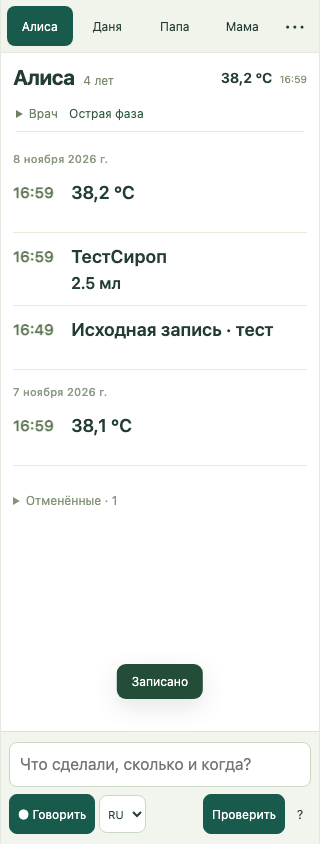
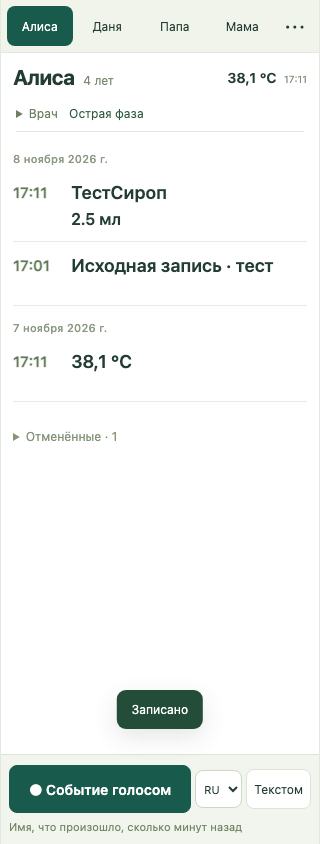
Make voice events global with relative times and automatic submission

diff --git a/site/public/app.js b/site/public/app.js
@@ -1,7 +1,7 @@
 import {captureVoice} from '/voice-capture.js';
 const $=(s,r=document)=>r.querySelector(s),root=$('#app'),modal=$('#modal');
-let state,token='',patientId=localStorage.getItem('medika-patient')||'',phrase='',busy=false,recording=null,voicePatient='',language=localStorage.getItem('medika-language')||'ru';
-const kinds={temperature:'Температура',diarrhea:'Диарея',vomiting:'Рвота',inhalation:'Ингаляция',medication:'Лекарство',other:'Другое'};
+let state,token='',patientId=localStorage.getItem('medika-patient')||'',phrase='',busy=false,recording=null,voiceAt='',textEntry=false,language=localStorage.getItem('medika-language')||'ru';
+const kinds={temperature:'Температура',diarrhea:'Диарея',vomiting:'Рвота',retching:'Позывы к рвоте',inhalation:'Ингаляция',medication:'Лекарство',other:'Другое'};
 const phases={'':'Не выбран',prevention:'Профилактика',acute:'Острая фаза'};
 const units=['мл','мг','свеча','табл.','капс.','кап.','впрыскивание','пакет','доза','г','мкг','нанесение'];
 const e=s=>String(s??'').replace(/[&<>"']/g,c=>({'&':'&amp;','<':'&lt;','>':'&gt;','"':'&quot;',"'":'&#39;'}[c]));
@@ -13,7 +13,11 @@ const value=r=>r.celsius.toLocaleString('ru-RU',{minimumFractionDigits:1,maximum
 const time=r=>new Date(r.occurredAt).toLocaleTimeString('ru-RU',{timeZone:r.timeZone,hour:'2-digit',minute:'2-digit'});
 const date=r=>new Date(r.occurredAt).toLocaleDateString('ru-RU',{timeZone:r.timeZone,day:'numeric',month:'long',year:'numeric'});
 function localInput(iso=new Date().toISOString()){if(!iso)return '';const d=new Date(iso);d.setMinutes(d.getMinutes()-d.getTimezoneOffset());return d.toISOString().slice(0,16);}
-function toast(text){$('#toast').textContent=text;clearTimeout(toast.timer);toast.timer=setTimeout(()=>$('#toast').textContent='',5000);}
+function toast(text,record=null){
+  const node=$('#toast');node.textContent=text;clearTimeout(toast.timer);
+  if(record){const button=document.createElement('button');button.textContent='Отменить';button.onclick=async()=>{button.disabled=true;try{await api('/activities/'+record.id+'/void',{body:{version:record.version,reason:'Отменено после голосового ввода'}});await refresh();toast('Запись отменена');}catch(error){toast(error.message);}};node.append(button);}
+  toast.timer=setTimeout(()=>node.textContent='',record?15000:5000);
+}
 async function api(path,{body,method=body?'POST':'GET',retry=false}={}){
   if(!token){const r=await fetch('/api/session');if(!r.ok)throw Error('Приложение недоступно');token=(await r.json()).token;}
   const response=await fetch('/api'+path,{method,headers:{'X-Medika-Token':token,...(body?{'Content-Type':'application/json'}:{})},body:body?JSON.stringify(body):undefined});
@@ -33,9 +37,9 @@ async function refresh(){
 function render(){
   if(!state.people.length){root.innerHTML='<main class="start"><h1>Медика</h1><button data-act="person">Добавить пациента</button></main>';return;}
   const p=current(),all=records(),active=all.filter(r=>r.status!=='void'),cancelled=all.filter(r=>r.status==='void'),last=active.find(r=>r.kind==='temperature');
-  root.innerHTML=`<div class="patient-app"><header class="patient-nav" aria-label="Пациенты">${state.people.map(p=>`<button data-patient="${p.id}" aria-pressed="${p.id===patientId}" ${busy||recording?'disabled':''}>${e(label(p))}</button>`).join('')}<button class="more" data-act="tools" aria-label="Ещё">⋯</button></header><section class="patient-summary"><h1>${e(label(p))}${p.ageYears!=null?`<small>${p.ageYears} лет</small>`:''}</h1>${last?`<span class="last-temperature">${value(last)} <time>${time(last)}</time></span>`:''}</section><details class="doctor"><summary>Врач <span>${e(phases[p.carePhase||''])}</span></summary><div class="doctor-body"><label>Контекст<select id="care-phase">${Object.entries(phases).map(([v,l])=>`<option value="${v}" ${v===(p.carePhase||'')?'selected':''}>${l}</option>`).join('')}</select></label>${doctorPlan()}<div class="source-actions"><button data-act="upload">Выписка</button><button data-act="rx">Назначение</button></div></div></details><main class="patient-history" aria-label="История пациента">${active.length?historyRows(active):'<p class="quiet">Событий пока нет</p>'}${cancelled.length?`<details class="cancelled"><summary>Отменённые · ${cancelled.length}</summary>${historyRows(cancelled)}</details>`:''}</main><form id="composer" class="composer"><textarea id="phrase" name="text" rows="1" placeholder="Что сделали, сколько и когда?" aria-label="Запись одной фразой" ${busy||recording?'disabled':''}>${e(phrase)}</textarea><div class="composer-actions"><button type="button" class="voice ${recording?'recording':''}" data-act="voice" ${busy?'disabled':''}>${recording?'■ Стоп':'● Говорить'}</button><select id="language" aria-label="Язык диктовки" ${busy||recording?'disabled':''}><option value="ru" ${language==='ru'?'selected':''}>RU</option><option value="en" ${language==='en'?'selected':''}>EN</option></select><span class="voice-status" role="status">${busy?'Разбираю…':recording?'Слушаю…':''}</span><button type="submit" class="primary" ${busy||recording?'disabled':''}>Проверить</button><button type="button" class="template" data-act="template" aria-label="Шаблон фразы">?</button></div></form></div>`;
+  root.innerHTML=`<div class="patient-app"><header class="patient-nav" aria-label="Пациенты">${state.people.map(p=>`<button data-patient="${p.id}" aria-pressed="${p.id===patientId}" ${busy||recording?'disabled':''}>${e(label(p))}</button>`).join('')}<button class="more" data-act="tools" aria-label="Ещё">⋯</button></header><section class="patient-summary"><h1>${e(label(p))}${p.ageYears!=null?`<small>${p.ageYears} лет</small>`:''}</h1>${last?`<span class="last-temperature">${value(last)} <time>${time(last)}</time></span>`:''}</section><details class="doctor"><summary>Врач <span>${e(phases[p.carePhase||''])}</span></summary><div class="doctor-body"><label>Контекст<select id="care-phase">${Object.entries(phases).map(([v,l])=>`<option value="${v}" ${v===(p.carePhase||'')?'selected':''}>${l}</option>`).join('')}</select></label>${doctorPlan()}<div class="source-actions"><button data-act="upload">Выписка</button><button data-act="rx">Назначение</button></div></div></details><main class="patient-history" aria-label="История пациента">${active.length?historyRows(active):'<p class="quiet">Событий пока нет</p>'}${cancelled.length?`<details class="cancelled"><summary>Отменённые · ${cancelled.length}</summary>${historyRows(cancelled)}</details>`:''}</main><form id="composer" class="composer" aria-label="Общее событие для семьи"><div class="composer-actions"><button type="button" class="voice ${recording?'recording':''}" data-act="voice" ${busy?'disabled':''}>${recording?'■ Отправить':'● Событие голосом'}</button><select id="language" aria-label="Язык диктовки" ${busy||recording?'disabled':''}><option value="ru" ${language==='ru'?'selected':''}>RU</option><option value="en" ${language==='en'?'selected':''}>EN</option></select><button type="button" class="text-toggle" data-act="text" ${busy||recording?'disabled':''}>Текстом</button></div><div class="voice-status" role="status">${busy?'Распознаю и записываю…':recording?'Скажите имя и событие · пауза отправит запись':'Имя, что произошло, сколько минут назад'}</div>${textEntry?`<div class="text-entry"><textarea id="phrase" name="text" rows="1" placeholder="Даня, две минуты назад температура 38,2" aria-label="Запись одной фразой" ${busy||recording?'disabled':''}>${e(phrase)}</textarea><button type="submit" class="primary" ${busy||recording?'disabled':''}>Проверить</button></div>`:''}</form></div>`;
   $('#composer').onsubmit=event=>{event.preventDefault();parsePhrase();};
-  $('#phrase').oninput=event=>phrase=event.target.value;
+  if($('#phrase'))$('#phrase').oninput=event=>phrase=event.target.value;
   $('#language').onchange=event=>{language=event.target.value;localStorage.setItem('medika-language',language);};
   $('#care-phase').onchange=async event=>{try{await api('/people/'+p.id,{method:'PUT',body:{...p,carePhase:event.target.value,version:p.version}});await refresh();$('.doctor').open=true;}catch(error){toast(error.message);}};
 }
@@ -57,7 +61,7 @@ function dialog(title,html,submit){
   $('form',modal).onsubmit=async event=>{event.preventDefault();const button=$('[type="submit"]',modal);if(button?.disabled)return;if(button)button.disabled=true;try{await submit?.(Object.fromEntries(new FormData(event.target)),event.target);}catch(error){$('.error',modal).textContent=error.message;}finally{if(button)button.disabled=false;}};
 }
 modal.addEventListener('click',event=>{if(event.target.closest('[data-close]'))modal.close();});
-async function parsePhrase(text=phrase,pid=patientId){
+async function parsePhrase(text=phrase,pid=''){
   if(!text.trim()||busy)return;busy=true;render();
   try{const draft=await api('/parse-entry',{body:{text,personId:pid,timeZone:tz()}});preview(draft);}catch(error){toast(error.message);}finally{busy=false;render();}
 }
@@ -67,21 +71,29 @@ function preview(d){
     const body={...data,sourceText:d.sourceText,timeZone:d.timeZone,occurredAt:new Date(data.occurredAt).toISOString(),clientKey};
     if(data.kind!=='temperature')delete body.celsius;
     if(!['medication','inhalation'].includes(data.kind)){body.amount='';body.unit='';body.relatedRxId='';}
-    const record=await api('/entries',{body});patientId=record.personId;phrase='';modal.close();await refresh();toast('Записано');
+    const record=await api('/entries',{body});patientId=record.personId;phrase='';textEntry=false;modal.close();await refresh();toast('Записано');
   });
   const choose=$('[name="kind"]',modal),update=()=>{for(const part of modal.querySelectorAll('[data-part]')){const visible=part.dataset.part.split(' ').includes(choose.value);part.hidden=!visible;for(const input of part.querySelectorAll('input,select'))input.disabled=!visible;} $('[name="celsius"]',modal).required=choose.value==='temperature';$('[name="name"]',modal).required=['medication','inhalation','other'].includes(choose.value);};choose.onchange=update;update();
   $('[name="personId"]',modal).onchange=()=>{const select=$('[name="relatedRxId"]',modal);select.value='';for(const option of [...select.options].slice(1))option.remove();};
   $('[name="name"]',modal).oninput=()=>{$('[name="relatedRxId"]',modal).value='';};
 }
-async function speechFile(file,pid=patientId){
-  if(!file||busy)return;busy=true;render();
-  try{const audio=await new Promise((resolve,reject)=>{const reader=new FileReader();reader.onload=()=>resolve(reader.result.split(',')[1]);reader.onerror=reject;reader.readAsDataURL(file);});const result=await api('/transcribe',{body:{audio,language}});phrase=result.text;busy=false;await parsePhrase(phrase,pid);}catch(error){toast(error.message);}finally{busy=false;render();}
+async function recordSpeech(text,recordedAt,clientKey){
+  const result=await api('/record-entry',{body:{text,timeZone:tz(),recordedAt,clientKey}});
+  if(!result.record){preview(result.draft);return;}
+  const record=result.record;patientId=record.personId;phrase='';textEntry=false;localStorage.setItem('medika-patient',patientId);await refresh();
+  toast(label(person(record.personId))+' · '+title(record)+(amount(record)?' · '+amount(record):'')+' · '+time(record),record);
+}
+async function speechFile(file,recordedAt=new Date().toISOString()){
+  if(!file||busy)return;busy=true;render();const clientKey=key();
+  try{const audio=await new Promise((resolve,reject)=>{const reader=new FileReader();reader.onload=()=>resolve(reader.result.split(',')[1]);reader.onerror=reject;reader.readAsDataURL(file);});const result=await api('/transcribe',{body:{audio,language}});phrase=result.text;await recordSpeech(result.text,recordedAt,clientKey);}catch(error){textEntry=!!phrase;toast(error.message);}finally{busy=false;render();}
 }
 async function voice(){
-  if(recording){const captured=recording;recording=null;busy=true;render();try{const blob=await captured.stop();busy=false;await speechFile(blob,voicePatient);}catch(error){toast(error.message);}finally{busy=false;render();}return;}
+  if(busy)return;
+  if(recording){const captured=recording;recording=null;busy=true;render();try{const blob=await captured.stop();busy=false;await speechFile(blob,voiceAt);}catch(error){toast(error.message);}finally{busy=false;render();}return;}
   if(!window.isSecureContext||!navigator.mediaDevices?.getUserMedia){voiceHelp();return;}
   if(!state.capabilities.voice?.ready){toast('Локальное распознавание ещё не готово');return;}
-  try{voicePatient=patientId;recording=await captureVoice(()=>voice());render();}catch(error){toast(error.name==='NotAllowedError'?'Разрешите доступ к микрофону в браузере':'Не удалось включить микрофон. Можно ввести текст или выбрать аудиозапись.');}
+  busy=true;phrase='';render();
+  try{recording=await captureVoice(()=>voice());voiceAt=new Date().toISOString();}catch(error){toast(error.name==='NotAllowedError'?'Разрешите доступ к микрофону в браузере':'Не удалось включить микрофон. Можно ввести текст или выбрать аудиозапись.');}finally{busy=false;render();}
 }
 function voiceHelp(){dialog('Микрофон на телефоне',`<p>Браузер разрешает микрофон через HTTPS. На iPad один раз установите локальный сертификат и включите доверие к нему.</p><ol><li><a href="/medika-ca.cer">Скачать сертификат Медики</a></li><li>Настройки → Загруженный профиль → Установить. Затем Основные → Об этом устройстве → Доверие сертификатам → включить локальный сертификат.</li><li><a href="${e(state.capabilities.voice?.secureOrigin||'https://macbook-air-5.local')}">Открыть HTTPS</a></li></ol><p class="quiet">Сейчас можно надиктовать текст микрофоном клавиатуры или выбрать готовую аудиозапись. Распознавание записи выполняется на Mac.</p><input type="file" id="audio-file" accept=".wav,.m4a,.mp4,.aif,.aiff" aria-label="Аудиозапись"><footer class="dialog-footer"><button type="button" data-close>Закрыть</button></footer>`);$('#audio-file',modal).onchange=event=>{modal.close();speechFile(event.target.files[0]);};}
 function template(){dialog('Шаблон фразы',`<p class="template-line">Кто → что сделали → сколько → когда</p><p>Можно говорить свободно. Одно событие — одна фраза. Неясные поля можно исправить перед записью.</p><footer class="dialog-footer"><button type="button" data-close>Понятно</button></footer>`);}
@@ -99,7 +111,7 @@ function rxForm(id='',suggestion={},documentId=''){
 root.addEventListener('click',async event=>{
   const tab=event.target.closest('[data-patient]');if(tab&&!busy&&!recording){patientId=tab.dataset.patient;localStorage.setItem('medika-patient',patientId);render();return;}
   const b=event.target.closest('[data-act]');if(!b)return;
-  try{const {act,id}=b.dataset;if(act==='voice')await voice();if(act==='tools')tools();if(act==='person')personForm(null);if(act==='template')template();if(act==='void')voidRecord(b.dataset.source,id);if(act==='document')documentView(id);if(act==='upload')upload();if(act==='rx')rxForm(id);if(act==='draft-rx'){const d=state.documents.find(d=>d.id===id);rxForm('',d.suggestions[Number(b.dataset.index)],d.id);}}catch(error){toast(error.message);}
+  try{const {act,id}=b.dataset;if(act==='voice')await voice();if(act==='text'){textEntry=!textEntry;render();if(textEntry)$('#phrase').focus();}if(act==='tools')tools();if(act==='person')personForm(null);if(act==='template')template();if(act==='void')voidRecord(b.dataset.source,id);if(act==='document')documentView(id);if(act==='upload')upload();if(act==='rx')rxForm(id);if(act==='draft-rx'){const d=state.documents.find(d=>d.id===id);rxForm('',d.suggestions[Number(b.dataset.index)],d.id);}}catch(error){toast(error.message);}
 });
 window.addEventListener('pagehide',()=>recording?.cancel());
 function viewport(){document.documentElement.style.setProperty('--screen-height',(window.visualViewport?.height||window.innerHeight)+'px');}window.visualViewport?.addEventListener('resize',viewport);viewport();

diff --git a/site/public/style.css b/site/public/style.css
@@ -1,1 +1,3 @@
 :root{font-family:-apple-system,BlinkMacSystemFont,"Segoe UI",sans-serif;color:#243d33;background:#f5f6f2;font-size:16px;--screen-height:100dvh}*{box-sizing:border-box}body{margin:0}button,input,select,textarea{font:inherit;color:inherit}button,select{cursor:pointer}button{border:1px solid #dce4d7;background:#fff;border-radius:8px;padding:9px 12px;min-height:42px}button:hover{background:#eef4e9}button.primary,.voice{background:#185b4c;color:#fff;border-color:#185b4c}button:disabled{opacity:.55;cursor:default}input,select,textarea{width:100%;border:1px solid #cbd8c4;border-radius:8px;padding:10px;background:white;font-size:16px}textarea{resize:vertical;line-height:1.45}label{display:grid;gap:6px;font-size:13px;margin:12px 0}h1,h2,p{margin-top:0}a{color:#185b4c}button:focus-visible,summary:focus-visible,a:focus-visible,input:focus-visible,select:focus-visible,textarea:focus-visible{outline:3px solid #89b5a0;outline-offset:2px}[hidden]{display:none!important}.patient-app{display:flex;flex-direction:column;height:var(--screen-height);max-width:920px;margin:auto;background:#fff;overflow:hidden;border-inline:1px solid #e4e9df}.patient-nav{display:flex;gap:4px;padding:7px 10px;border-bottom:1px solid #e3e9dc;flex-shrink:0;background:#f0f4eb}.patient-nav button{flex:1;min-width:0;font-size:14px;border-color:transparent;background:transparent;padding:8px 6px;min-height:40px;overflow:hidden;text-overflow:ellipsis;white-space:nowrap}.patient-nav button[aria-pressed="true"]{background:#185b4c;color:#fff}.patient-nav .more{flex:0 0 36px;font-size:23px;padding:3px}.patient-summary{display:flex;align-items:center;gap:12px;padding:11px 17px 5px;flex-shrink:0}.patient-summary h1{font-size:21px;letter-spacing:-.5px;margin:0;flex:1;line-height:1.3}.patient-summary h1 small{font-size:12px;font-weight:400;color:#7b8b71;margin-left:9px;letter-spacing:0}.last-temperature{font-size:16px;font-weight:650;white-space:nowrap}.last-temperature time{font-size:10px;font-weight:400;color:#839377;margin-left:4px}.doctor{margin:0 15px 5px;flex-shrink:0;max-height:50%;overflow:auto;border-bottom:1px solid #e2e8dc}.doctor>summary{cursor:pointer;font-size:12px;padding:10px 0;color:#6e8064}.doctor>summary>span{color:#315b42;margin-left:8px}.doctor-body{padding:0 0 12px}.doctor-body>label{display:flex;align-items:center;gap:10px;font-size:12px}.doctor-body>label select{font-size:13px;padding:7px;max-width:220px}.patient-history{flex:1;overflow:auto;min-height:0;padding:0 17px 15px;overscroll-behavior:contain}.day{font-size:11px;color:#8c9983;font-weight:500;margin:15px 0 4px;letter-spacing:.2px}.record{border-bottom:1px solid #e7ecdf}.record>summary{display:flex;align-items:flex-start;gap:14px;padding:12px 0;min-height:63px;cursor:pointer;list-style:none}.record>summary::-webkit-details-marker{display:none}.record>summary>time{flex-shrink:0;min-width:44px;font-size:15px;font-weight:550;color:#607957;padding-top:2px}.record>summary>div{min-width:0;flex:1}.record strong{display:-webkit-box;-webkit-line-clamp:2;-webkit-box-orient:vertical;overflow:hidden;font-size:18px;font-weight:600;line-height:1.3;overflow-wrap:anywhere}.record b{display:block;font-size:16px;font-weight:600;margin-top:4px;line-height:1.3}.record span{display:block;font-size:11px;margin-top:4px;color:#829177}.record-details{padding:0 0 12px 58px;font-size:12px;line-height:1.6}.record-details p{margin:5px 0;overflow-wrap:anywhere;white-space:pre-wrap}.record-details button{font-size:12px;min-height:38px;padding:7px 10px}.record.void strong{color:#9ba68f;text-decoration:line-through}.cancelled{margin-top:18px;font-size:12px;color:#859579}.cancelled>summary{padding:9px 0;cursor:pointer}.quiet{font-size:13px;color:#8c9c81;line-height:1.6;margin:18px 0}.composer{flex-shrink:0;border-top:1px solid #dbe5d4;padding:10px 12px calc(10px + env(safe-area-inset-bottom));background:#f1f5ed}.composer textarea{display:block;min-height:45px;max-height:100px;resize:none;font-size:16px;background:#fff}.composer-actions{display:flex;align-items:center;gap:7px;margin-top:7px}.composer-actions button{font-size:13px;min-height:40px;padding:8px 11px;white-space:nowrap}.composer-actions #language{width:57px;flex-shrink:0;font-size:11px;padding:7px 4px;min-height:38px}.voice-status{font-size:11px;color:#728666;margin-right:auto;white-space:nowrap}.composer-actions .template{padding:5px;flex:0 0 28px;min-width:28px;border-color:transparent;background:transparent}.voice.recording{background:#a34435;border-color:#a34435}.order{display:flex;align-items:center;gap:12px;padding:11px 0;border-top:1px solid #e4e9de}.order>div{flex:1;min-width:0}.order strong,.order b,.order span,.order small{display:block;overflow-wrap:anywhere}.order strong{font-size:16px;font-weight:600}.order b{font-size:14px;margin-top:3px}.order span{font-size:12px;color:#657e59;margin-top:3px;line-height:1.5}.order small{font-size:10px;color:#9a8456;margin-top:4px}.order button{font-size:11px;min-height:38px;padding:7px}.order.draft{background:#fbf9f2}.source-actions{display:flex;gap:8px;margin-top:12px}.source-actions button{font-size:12px;min-height:38px}.sources{font-size:12px;padding:10px 0;color:#708264}.sources summary{cursor:pointer}.sources button{display:block;margin:7px 0;font-size:11px;text-align:left}.start{max-width:500px;margin:60px auto;padding:25px}.start h1{font-size:28px}.loading{padding:25px}dialog{width:min(560px,calc(100% - 24px));max-height:90dvh;border:0;border-radius:16px;padding:23px;color:#243d33;box-shadow:0 20px 80px #1b392a30}dialog::backdrop{background:#20392b66;backdrop-filter:blur(3px)}.dialog-head{display:flex;align-items:center;justify-content:space-between;gap:15px;margin-bottom:16px}.dialog-head h2{font-size:20px;letter-spacing:-.5px;line-height:1.25;margin:0}.dialog-head button{padding:4px;min-width:36px;min-height:36px;font-size:22px}.dialog-footer{display:flex;justify-content:flex-end;gap:8px;margin-top:20px}.dialog-footer button{font-size:13px}.dose-fields{display:grid;grid-template-columns:1fr 1fr;gap:12px}.dose-fields label{min-width:0}.preview>label:first-child{margin-top:0}.preview details{font-size:12px;margin-top:13px}.preview summary{cursor:pointer;color:#748568;padding:6px 0}.parse-notes{font-size:12px;color:#96753d;line-height:1.55;margin:10px 0 0}.source-text{white-space:pre-wrap;overflow-wrap:anywhere;font-size:12px;color:#748469;line-height:1.7}.check{display:flex;align-items:start;gap:8px;line-height:1.5}.check input{width:18px;height:18px;flex-shrink:0;margin-top:1px}.document-image{max-width:100%;max-height:390px;object-fit:contain;border-radius:8px}.error{font-size:12px;color:#a44535;line-height:1.5;margin:12px 0 0}.error:empty{display:none}.tools{display:grid;gap:9px}.tools button{text-align:left;font-size:13px}.tools label{border:1px solid #dbe5d4;padding:11px;border-radius:8px;margin:0}.template-line{font-size:18px;line-height:1.5}dialog p,dialog ol{font-size:14px;line-height:1.6}dialog li{margin:10px 0}#toast{position:fixed;bottom:calc(145px + env(safe-area-inset-bottom));left:50%;transform:translateX(-50%);max-width:calc(100% - 30px);font-size:12px;color:white;background:#234d39;padding:10px 15px;border-radius:9px;z-index:12;box-shadow:0 8px 24px #203e2520}#toast:empty{display:none}@media(max-width:360px){.patient-nav{padding:6px;gap:2px}.patient-nav button{font-size:12px;padding:7px 4px}.patient-summary{padding-inline:12px}.patient-history{padding-inline:12px}.composer{padding-inline:8px}.composer-actions{gap:4px}.composer-actions button{font-size:12px;padding:8px}.voice-status{font-size:9px}.composer-actions #language{width:47px}.composer-actions .template{flex-basis:22px;min-width:22px}dialog{padding:18px}.last-temperature{font-size:14px}}@media(min-width:1000px){.patient-app{border-inline:1px solid #dfe6d7}.patient-history{padding-inline:24px}.patient-summary{padding-inline:24px}.composer{padding:12px 23px}.patient-nav{padding-inline:19px}}
+
+.composer-actions{margin-top:0}.composer-actions .voice{flex:1;font-size:16px;font-weight:600;min-height:48px}.composer-actions .text-toggle{font-size:12px;padding-inline:7px}.voice-status{margin:7px 0 0;font-size:11px;color:#728666;min-height:14px}.text-entry{display:flex;gap:7px;margin-top:8px}.text-entry textarea{flex:1;min-width:0}.text-entry button{font-size:12px}#toast{bottom:calc(115px + env(safe-area-inset-bottom));line-height:1.6;text-align:center}#toast button{display:inline-block;min-height:36px;margin:5px 0 0 10px;padding:5px 10px;font-size:12px;color:#fff;border-color:#729d80;background:transparent}@media(max-width:360px){.composer-actions .voice{font-size:14px}}

diff --git a/site/public/voice-capture.js b/site/public/voice-capture.js
@@ -13,10 +13,17 @@ export async function captureVoice(onLimit){
     stream=await navigator.mediaDevices.getUserMedia({audio:{channelCount:1,echoCancellation:true,noiseSuppression:true},video:false});
     await context.audioWorklet.addModule('/voice-recorder.js');
     const source=context.createMediaStreamSource(stream),recorder=new AudioWorkletNode(context,'medika-recorder'),silent=context.createGain();silent.gain.value=0;source.connect(recorder);recorder.connect(silent);silent.connect(context.destination);
-    const chunks=[];let finish,stopped=false;const finalChunk=new Promise(resolve=>finish=resolve);
-    recorder.port.onmessage=event=>{if(event.data.samples)chunks.push(event.data.samples);if(event.data.done)finish();};
+    const chunks=[];let finish,stopped=false,spokenMs=0,lastSpeech=0,ending=false;const finalChunk=new Promise(resolve=>finish=resolve),started=performance.now();
+    recorder.port.onmessage=event=>{
+      if(event.data.samples){
+        const samples=event.data.samples;chunks.push(samples);let power=0;for(const sample of samples)power+=sample*sample;
+        if(Math.sqrt(power/samples.length)>.012){spokenMs+=samples.length/context.sampleRate*1000;lastSpeech=performance.now();}
+      }
+      if(event.data.done)finish();
+    };
+    const pause=setInterval(()=>{if(!stopped&&!ending&&((spokenMs>=250&&performance.now()-lastSpeech>=1800)||(!lastSpeech&&performance.now()-started>=10000))){ending=true;onLimit();}},100);
     const limit=setTimeout(onLimit,45000);
-    const close=()=>{clearTimeout(limit);stream.getTracks().forEach(track=>track.stop());if(context.state!=='closed')context.close().catch(()=>{});};
+    const close=()=>{clearTimeout(limit);clearInterval(pause);stream.getTracks().forEach(track=>track.stop());if(context.state!=='closed')context.close().catch(()=>{});};
     return {cancel(){stopped=true;close();},async stop(){if(stopped)throw Error('Запись уже остановлена');stopped=true;clearTimeout(limit);try{recorder.port.postMessage('stop');await Promise.race([finalChunk,new Promise(resolve=>setTimeout(resolve,1000))]);return encodeWav(chunks,context.sampleRate);}finally{close();}}};
   }catch(error){stream?.getTracks().forEach(track=>track.stop());await context.close();throw error;}
 }

diff --git a/PROJECT.md b/PROJECT.md
@@ -8,9 +8,13 @@
 
 Открыть **http://macbook-air-5.local** или **http://192.168.0.38** в домашней Wi-Fi сети. На Mac также работает http://medika.localhost. Порты скрыты Caddy, DNS менять не нужно.
 
-Выбрать человека сверху. На экране — только его история; подробности записи раскрываются нажатием. Внизу — одна фраза текстом либо кнопка «Говорить». Шаблон по кнопке «?»: кто → что сделали → сколько → когда. Например, температуру, рвоту, диарею, свечу или ингаляцию можно описать своими словами. Одно событие — одна фраза. Если человек назван явно, он будет выбран при проверке. Если точное время прошлого события неизвестно, его нужно заполнить.
+Основной ввод — общая кнопка «Событие голосом» внизу. Заранее выбирать пациента или открывать клавиатуру не нужно. Нажать и сказать, например: «Даня, две минуты назад температура 38,2», «Даня получил таблетку парацетамола 250 мг пять минут назад», «Даня получил свечку парацетамола 125 мг минуту назад», «Даня, позывы к рвоте». После паузы около двух секунд запись отправляется сама; кнопка «Отправить» позволяет закончить раньше. Имя в фразе определяет пациента независимо от открытой истории.
 
-Распознанный текст сначала превращается в проверяемый черновик. Исправить человека, название, значение, количество, единицу и время; нажать «Записать». Разбор фразы и распознавание аудио сами по себе ничего не записывают. Дозу из назначения в факт автоматически не подставлять. Сложная или неоднозначная речь может потребовать ручного исправления; это консервативный локальный разбор, а не медицинская языковая модель.
+Однозначный факт сразу сохраняется: короткое подтверждение показывает человека, событие, количество и время; «Отменить» доступно 15 секунд без дополнительной формы. Исходная фраза остаётся в истории. Уточнение открывается только при пропущенном/неоднозначном имени, значении, названии, количестве или времени; голосовой диалог уточнений — фаза 2. Разбор фото/назначений по-прежнему требует ручной сверки.
+
+«Две минуты назад», «пять минут назад», «минуту назад», «полчаса назад» пересчитываются относительно начала фактической записи, а не конца распознавания. Таблетка/свечка в единственном числе означает одну штуку; содержание в мг хранится отдельно и не вычисляется из назначения. Позывы к рвоте — отдельное событие, они не считаются состоявшейся рвотой. Несколько событий записывать отдельными фразами.
+
+Пациенты сверху нужны для просмотра истории; после голосовой записи откроется история названного человека. Текстовый ввод свёрнут под «Текстом» и остаётся способом ручной проверки. Неясные значения, диапазоны, отрицания и неподтверждённые прошлые часы автоматически в положительный факт не превращаются. Сложная речь может потребовать исправления: локальный разбор не является медицинской языковой моделью.
 
 Микрофону браузера на iPad нужен доверенный HTTPS. Один раз скачать http://macbook-air-5.local/medika-ca.cer, установить профиль в настройках iPad и включить доверие **Medika Local Root** в «Основные → Об этом устройстве → Доверие сертификатам». Затем открыть **https://macbook-air-5.local** (или https://192.168.0.38) и разрешить микрофон. Подсказка доступна по «Говорить» на HTTP. Без установки можно вводить текст, использовать диктовку клавиатуры или выбрать WAV/M4A/AIFF. Диктовкой клавиатуры управляет ОС; локальный Whisper используется кнопкой приложения и для загруженного аудио.
 
@@ -20,7 +24,7 @@
 
 ## Архитектура
 
-`site/`: Node.js 24+ со встроенной SQLite и браузерный JS без runtime npm-зависимостей. Изображения: локальный Apple Vision (Swift). Речь: локальный whisper.cpp, multilingual base, Metal на Mac. Только русский и английский, до 45 секунд, один запрос распознавания одновременно. Исходный код и SHA256 модели закреплены в `site/voice-engine.json`; восстановление движка — `node site/scripts/setup-voice.mjs` (нужны git, cmake и Xcode Command Line Tools). Модель и сборка исключены из Git. Аудио удаляется после обработки; распознанная фраза сохраняется с подтверждённым событием.
+`site/`: Node.js 24+ со встроенной SQLite и браузерный JS без runtime npm-зависимостей. Изображения: локальный Apple Vision (Swift). Речь: локальный whisper.cpp, multilingual base, Metal на Mac. Только русский и английский, до 45 секунд, один запрос распознавания одновременно. Исходный код и SHA256 модели закреплены в `site/voice-engine.json`; восстановление движка — `node site/scripts/setup-voice.mjs` (нужны git, cmake и Xcode Command Line Tools). Модель и сборка исключены из Git. Аудио удаляется после обработки; распознанная фраза сохраняется с записанным событием.
 
 Существующий системный Caddy (`homebrew.mxcl.caddy`) проксирует HTTP/HTTPS 80/443 на loopback 4382. Для HTTPS создана отдельная локальная CA `medika`; системное доверие автоматически не устанавливалось. Маршруты других проектов сохранены. Дополнительный блок — `infra/medika.caddy`; глобальные настройки — в `/opt/homebrew/etc/Caddyfile`: `auto_https disable_redirects`, `skip_install_trust`, `pki ca medika`. Оба LAN-маршрута ограничены домашней подсетью; backend проверяет Host, Origin и токен сессии.
 
@@ -28,7 +32,7 @@
 
 Медицинские данные находятся только в игнорируемом `site/data/`: SQLite, изображения, закрытые резервные копии. Аудио и фотографии не отправляются внешним сервисам. Новые факты, включая температуру, хранятся в `activities`; прежние `temperatures` и `events` отображаются в той же истории без изменения записей. Необязательные `carePhase`, `relatedRxId`, `sourceText` связывают факт с предписанием и исходной фразой. Связь не допускается с назначением другого человека.
 
-Копия v4 включает оригиналы, историю, связи и контекст; восстановление v1–v4 добавляет отсутствующие данные, конфликт версий отклоняется целиком. Перед обновлением создана закрытая копия `site/data/before-patient-first.json`; после запуска проверено равенство всех прежних клинических разделов.
+Копия v4 включает оригиналы, историю, связи и контекст; восстановление v1–v4 добавляет отсутствующие данные, конфликт версий отклоняется целиком. Перед обновлением создана закрытая копия `site/data/before-global-voice.json`; после запуска проверено равенство всех прежних клинических разделов.
 
 Режим рассчитан на доверенные домашние устройства: отдельных аккаунтов нет. Интернет-доступ не настраивался. Mac должен быть включён; изоляция клиентов Wi-Fi может мешать доступу. При смене DHCP-адреса обновить IP в Caddy и `MEDIKA_LAN_HOSTS`. Справочная база по взаимодействиям ограничена и не объявляет схему безопасной; автоматического расчёта детских доз нет.
 

diff --git a/reports/test-report.md b/reports/test-report.md
@@ -1,7 +1,7 @@
 # Проверка пациента и событий — 8 ноября 2026
 
-- 20 unit/API-тестов — PASS: дозы/концентрации, календарные границы и DST, прежние API, свободная фраза ru/en, отрицания/диапазоны, личные связи с Rx, неизменность контекста прошлых фактов, HTTPS Origin, WAV-кодирование, копии v1–v4.
-- `site/scripts/canary.mjs` — PASS, 9 групп: пациент и история; свободный ввод без записи до подтверждения; доза/время/Rx/источник; неизвестное прошлое время; AudioWorklet → WAV → настоящий локальный Whisper → проверка числа → факт; контекст предписания; синтетическое фото → Apple Vision → предложение; отмена; перезапуск/полное восстановление без дублей.
+- 22 unit/API-теста — PASS: дозы/концентрации, календарные границы и DST, прежние API, свободная фраза ru/en, отрицания/диапазоны, личные связи с Rx, неизменность контекста прошлых фактов, HTTPS Origin, WAV-кодирование, копии v1–v4.
+- `site/scripts/canary.mjs` — PASS, 9 групп: пациент и история; свободный ввод без записи до подтверждения; доза/время/Rx/источник; неизвестное прошлое время; AudioWorklet → WAV → настоящий локальный Whisper → пациент и относительное время из фразы → факт без формы; контекст предписания; синтетическое фото → Apple Vision → предложение; отмена; перезапуск/полное восстановление без дублей.
 - Финальный canary загружал реальные опубликованные ресурсы с https://macbook-air-5.local. Все API были перехвачены в отдельную временную базу. Использованы только синтетическое фото и синтезированная речь; microphone Chromium подменён WAV. Физический iPad не проверен.
 - В одном приложении проверены ширины 320/390/768/1024/1470, отсутствие горизонтальной прокрутки, шапка до 60 px и ввод до 150 px. Визуально проверены синтетические снимки 390 и 768. Результат: `canary-result.json`, `patient-*.png`, `patient-ocr.json`.
 - Изолированный Caddy TLS canary с временной CA, backend и данными — PASS; опубликованная TLS-цепочка и имена затем проверены с явным корневым сертификатом. Прежние маршруты Caddy сохранены; корневое доверие ОС не менялось. `tls-canary.json`, `https-access.json`.
@@ -10,3 +10,5 @@
 - `node site/scripts/setup-voice.mjs` — PASS на установленном движке: закреплённый commit, размер/SHA256 модели и работоспособность CLI. Чистая переустановка на другом Mac не проверена.
 
 Нынешний интерфейс использует локальный консервативный разбор полей; сложная речь требует ручной проверки, записи не сохраняются автоматически. Голосовой диалог уточнений — фаза 2. Старые отчёты описывают архивный интерфейс, актуальны результаты выше.
+
+Общий голосовой ввод: проверен новый `/api/record-entry`: имя независимо от открытого пациента, точные две минуты назад, таблетка/свечка (штуки отдельно от мг), позывы отдельно от рвоты, отсутствие записи при неоднозначности, повтор запроса без дубля, отмена, перезапуск и восстановление v4. Канарейка говорит «Даня, две минуты назад температура тридцать девять» при открытой Алисе: одно нажатие микрофона, автоотправка по паузе, настоящий Whisper, запись в Дане, ни формы подтверждения, ни клавиатуры, затем отмена одним нажатием. Скриншоты и база только синтетические. Физический iPad и шумная комната не проверены; при шуме запись можно завершить кнопкой «Отправить» (есть предел 45 секунд).

diff --git a/STATUS.md b/STATUS.md
@@ -2,8 +2,9 @@
 
 8 ноября 2026: запущен новый интерфейс «пациент и история».
 
-- Четыре пациента, личная компактная лента, единый ввод фразой или голосом.
-- Локальный Whisper ru/en: микрофон или аудиофайл → проверка текста/полей → подтверждённый факт. Без отправки аудио наружу.
+- Четыре пациента, личная компактная лента, общая кнопка «Событие голосом», без предварительного выбора человека и клавиатуры.
+- Локальный Whisper ru/en: микрофон → отправка после паузы → определение человека/события/времени → запись и короткое подтверждение с отменой. Уточнение только для неясной фразы. Без отправки аудио наружу.
+- Поддержаны «две минуты назад», «минуту назад», «полчаса назад», «получил таблетку/свечку»; позывы к рвоте учитываются отдельно от рвоты.
 - Лекарства, дозы, время, температура, симптомы и процедуры сохраняются в истории; исходная фраза и контекст предписания связаны с записью.
 - «Врач» свёрнут: профилактика/острая фаза, назначения, исходные выписки, локальный OCR и ручная сверка.
 - Прежние данные сохранены. Копии v4; восстановление v1–v4 без дублей и потери старых записей.
@@ -11,6 +12,6 @@
 - На iPad для микрофона один раз установить и доверить Medika Local Root: http://macbook-air-5.local/medika-ca.cer. Текстовый ввод работает по HTTP.
 - Предыдущая сложная версия: Git-ветка `archive/before-patient-first`, коммит `3a4e5a5`.
 
-Проверены 20 unit/API-тестов, сквозной ввод с настоящим локальным распознаванием синтетической речи, OCR, отмена, перезапуск, восстановление, ширины 320/390/768/1024/1470 и опубликованный HTTPS. Сценарии выполнялись в headless Chromium с временной базой, без реальных медицинских данных. Физический iPad и его микрофон не проверены. Голосовой диалог с уточнениями — фаза 2. Точность сложной свободной речи требует проверки перед сохранением.
+Проверены 22 unit/API-теста, сквозной ввод с настоящим локальным распознаванием синтетической речи, OCR, отмена, перезапуск, восстановление, ширины 320/390/768/1024/1470 и опубликованный HTTPS. Сценарии выполнялись в headless Chromium с временной базой, без реальных медицинских данных. Физический iPad и его микрофон не проверены. Голосовой диалог с уточнениями — фаза 2. Точность сложной свободной речи требует проверки перед сохранением.
 
 Подробности запуска/данных: [PROJECT.md](PROJECT.md). Доказательства: [reports/test-report.md](reports/test-report.md).

diff --git a/AGENTS.md b/AGENTS.md
@@ -20,7 +20,7 @@
 
 
 - Текущая модель: пациент → личная история → событие/лекарство, фактическая доза и время. Предписание врача («Профилактика»/«Острая фаза») — свёрнутый контекст. Прежняя общая доска сохранена в Git, её ограничения размеров/меню больше не применяются.
-- Имя — Алиса. Компактная шапка, крупные название/доза/время, подробности раскрываются. Единый ввод голосом или текстом, одно событие за раз, проверка перед сохранением. Фаза 2 — голосовой диалог; не добавлять его заранее.
+- Имя — Алиса. Компактная шапка, крупные название/доза/время, подробности раскрываются. Общий ввод: голосовая кнопка без предварительного выбора пациента/клавиатуры. Однозначная фраза с именем сразу создаёт событие после паузы; короткое подтверждение и отмена без формы. Неясная фраза требует сверки. Текстовый ввод свёрнут. Фаза 2 — голосовой диалог; не добавлять его заранее.
 - Голос: только ru/en, локальный whisper.cpp, не отправлять аудио наружу; временные файлы удалять при успехе и ошибке. Новые факты температуры — activities, старые temperatures сохранять и объединять в ленте. Связь с Rx проверять по пациенту. Копии v4 поддерживают прежние версии и новые метаданные без переписывания фактов.
-- Разбор речи не является медицинским источником: диапазон доз не превращать в одно число, концентрацию не считать дозой, несколько событий/отрицания не превращать в положительный приём. Неясное прошлое время просить заполнить. Проверять исходный текст перед записью.
+- Разбор речи не является медицинским источником: диапазон доз не превращать в одно число, концентрацию не считать дозой, несколько событий/отрицания не превращать в положительный приём. Неясное прошлое время просить заполнить. Сохранять исходную фразу; автоматически записывать только однозначное событие с явно названным пациентом. Не подставлять человека из открытой вкладки в общий голосовой ввод. Относительное время отсчитывать от начала записи, не от завершения ASR.
 - Для браузерного микрофона на LAN нужен доверенный HTTPS: macbook-air-5.local / 192.168.0.38. CA medika отдельная, публичный сертификат доступен по /medika-ca.cer. Не устанавливать системное доверие автоматически; не объявлять синтетический browser test проверкой физического iPad.

diff --git a/reports/approach-notes.md b/reports/approach-notes.md
@@ -7,3 +7,7 @@
 На реальном локальном Whisper синтетическое «тридцать восемь и два» распозналось как `38-2`. Автоматически считать это обычным целым/диапазоном нельзя: допускается только узкий температурный формат NN-N с явным предупреждением перед подтверждением; диапазон 38–39 и лишние десятичные цифры оставляют поле незаполненным. Регрессии также проверяют диапазон доз с пробелами, отрицание приёма и несколько событий. Минимальная проверка прошла, затем повторён весь путь через опубликованный HTTPS с синтетическим микрофоном.
 
 При чтении Apple Support получен HTTP 429. Запросы к этому источнику остановлены, повтора/обхода другим адресом не было. Инструкция установки сертификата подготовлена, но фактическая установка/разрешение микрофона на iPad не проверены. HTTPS и доверие к цепочке проверены локальным клиентом с явным корневым сертификатом; это не равнозначно проверке физического устройства.
+
+Общий голосовой ввод: прежняя обязательная проверка каждого события и связь микрофона с выбранной вкладкой не соответствовали просьбе пользователя «просто голосом отправить общее событие». Голос отвязан от просмотра: имя только из фразы, известный однозначный факт сразу записывается, 15 секунд доступна отмена, неоднозначность открывает сверку. Относительное время закреплено до ASR, чтобы распознавание не сдвигало факт. Минимальный путь прошёл на синтетических данных: API → запись/повтор/отмена → перезапуск → копия/восстановление; затем реальный Whisper с микрофоном Chromium и автоотправкой по паузе.
+
+Первый общий запуск unit-тестов выявил совпадение нового тестового порта с тестом температуры (EADDRINUSE). Чужой слушатель не останавливался: новый тест переведён на отдельный порт, проверены все объявления тестовых портов, затем полный совместный запуск: 22 PASS.
